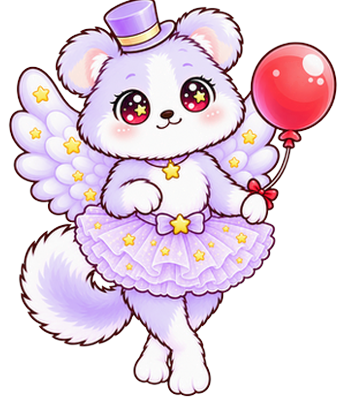
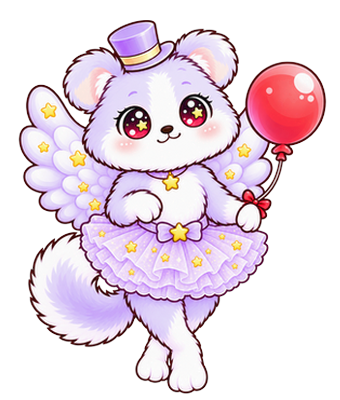
v0.9.18 소라 카드 그림 1.15→1.08배(모자 잘림)

diff --git a/index.html b/index.html
@@ -1553,7 +1553,7 @@
   const elTitle = document.getElementById("overTitle");
   const coinNote = document.getElementById("coinNote");
 
-  const GAME_VERSION = "v0.9.17";
+  const GAME_VERSION = "v0.9.18";
   /* 제작사 스플래시(bamhobak friends 로고) — 2026-09-20 끔. 다시 켜려면 true */
   const SPLASH_USE = false;   // 코드를 고칠 때마다 뒤 두 자리를 올린다
   document.getElementById("ver").textContent = GAME_VERSION;

diff --git a/README.md b/README.md
@@ -5,7 +5,7 @@
 👉 **플레이: https://bamhobak.github.io/ddongpi/**
 
 > 이 문서는 `index.html` 의 실제 값을 옮겨 적은 것입니다. 숫자를 고쳤으면 여기도 같이 고쳐 주세요.
-> 마지막으로 맞춰 본 판: **v0.9.17**
+> 마지막으로 맞춰 본 판: **v0.9.18**
 
 ## ⚔ 대전모드 (v0.8.24 한 폰 · v0.8.25 두 폰)
 시작하기를 누르면 **[방 만들기] · [방 참가](방 번호 4자리) · [한 폰으로 둘이서]** 를 고릅니다.
